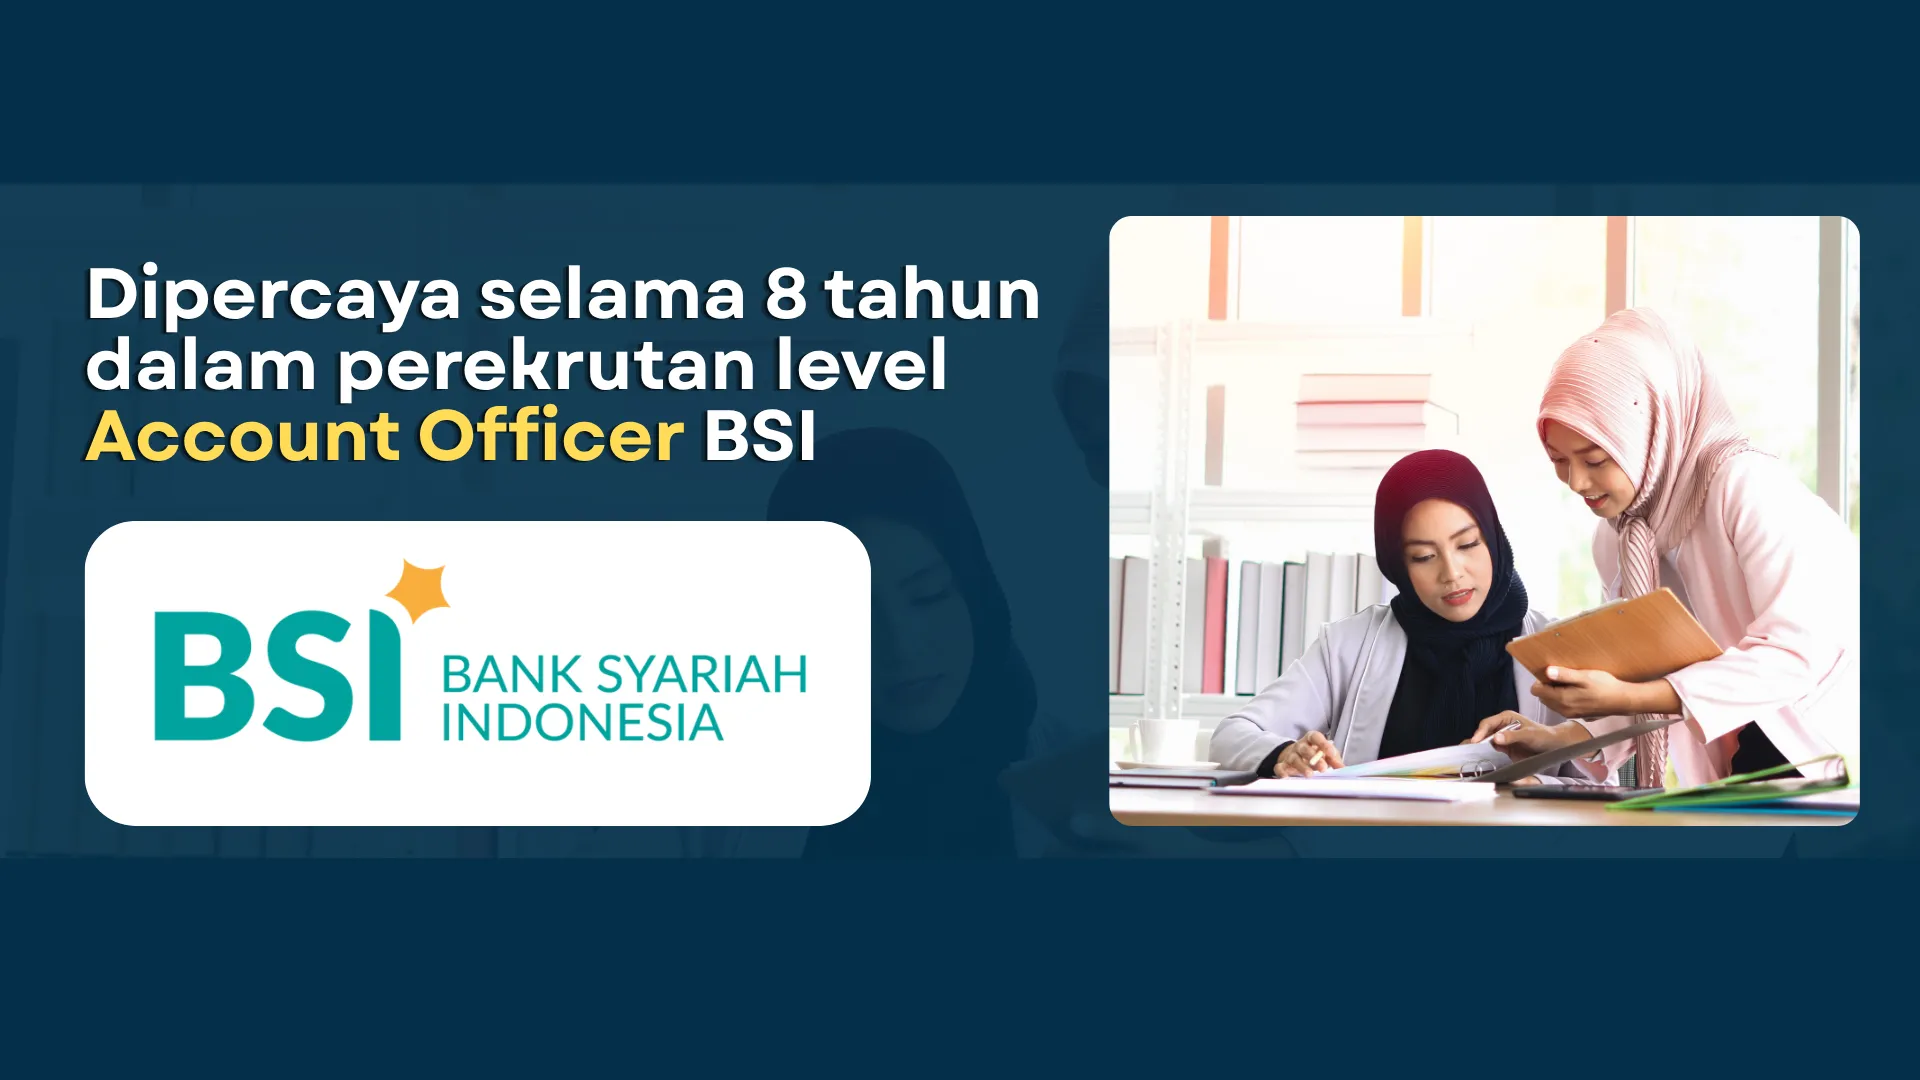
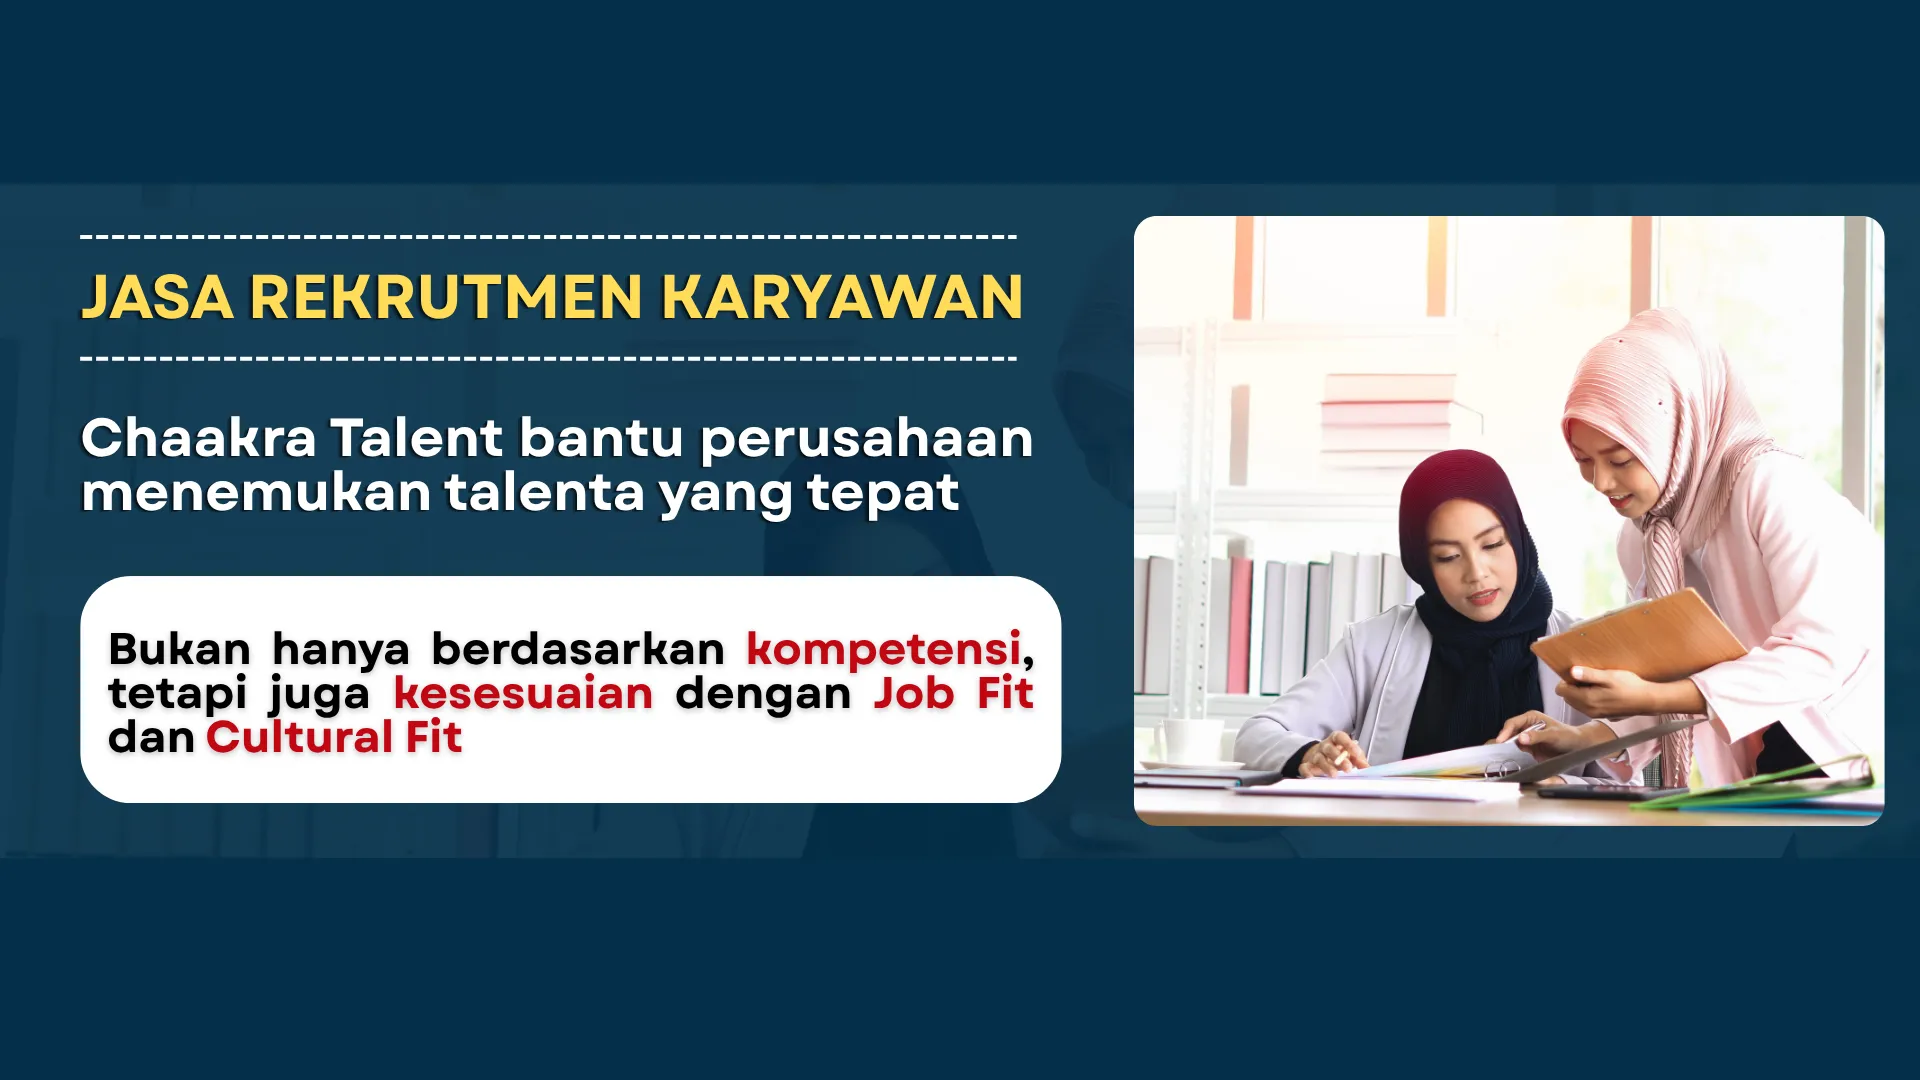
Bug fixed
+ Changed slider image
+ Changed page title & description

diff --git a/public/assets/cms/css/style.css b/public/assets/cms/css/style.css
@@ -2712,6 +2712,9 @@
   .text-center {
     text-align: center;
   }
+  .text-justify {
+    text-align: justify;
+  }
   .text-left {
     text-align: left;
   }
@@ -3895,6 +3898,9 @@
     .md\:mt-10 {
       margin-top: calc(var(--spacing) * 10);
     }
+    .md\:ml-\[30vw\] {
+      margin-left: 30vw;
+    }
     .md\:flex {
       display: flex;
     }
@@ -4026,6 +4032,9 @@
     }
     .md\:text-left {
       text-align: left;
+    }
+    .md\:text-start {
+      text-align: start;
     }
     .md\:text-4xl {
       font-size: var(--text-4xl);

diff --git a/resources/views/show_article.blade.php b/resources/views/show_article.blade.php
@@ -18,9 +18,9 @@
     <meta charset="UTF-8" />
     <meta http-equiv="X-UA-Compatible" content="IE=edge" />
     <meta name="viewport" content="width=device-width, initial-scale=1.0" />
-    <meta name="description"
-        content="{{ $article->description }}" />
-    <meta name="keywords" content="Jasa Rekrutmen Perusahaan, Layanan Rekrutmen SDM, Biro Psikologi, Jasa Rekrutmen Perusahaan, Jasa Psikolog Surabaya, Pelatihan SDM Terbaik, Pelatihan SDM Surabaya,{{ $article->keywords }},{{ $article->tags }}">
+    <meta name="description" content="{{ $article->description }}" />
+    <meta name="keywords"
+        content="Jasa Rekrutmen Perusahaan, Layanan Rekrutmen SDM, Biro Psikologi, Jasa Rekrutmen Perusahaan, Jasa Psikolog Surabaya, Pelatihan SDM Terbaik, Pelatihan SDM Surabaya,{{ $article->keywords }},{{ $article->tags }}">
     <link rel="icon" href="{{ asset('assets/cms/images/favicon.png') }}" type="image/x-icon" />
     <link rel="stylesheet" href="{{ asset('assets/cms/css/style.css') }}" />
     <link rel="preconnect" href="https://fonts.googleapis.com" />
@@ -125,9 +125,12 @@
                         class="max-w-5xl mx-auto px-6 py-16 md:py-20 flex flex-col md:flex-row gap-8 md:gap-16 font-sans text-gray-800">
 
                         <!-- Left Sidebar: Social Actions -->
+                        <!-- Left Sidebar: Social Actions -->
                         <aside class="flex-none flex flex-row md:flex-col gap-4 pt-2">
                             <!-- Twitter/X Icon -->
-                            <a class="w-12 h-12 flex items-center justify-center rounded-full border border-gray-200 hover:bg-gray-900 transition-colors group"
+                            <a href="https://twitter.com/intent/tweet?url={{ urlencode(request()->url()) }}&text={{ urlencode($article->title) }}"
+                                target="_blank" rel="noopener noreferrer"
+                                class="w-12 h-12 flex items-center justify-center rounded-full border border-gray-200 hover:bg-gray-900 transition-colors group"
                                 aria-label="Share on X">
                                 <svg class="w-4 h-4 group-hover:fill-white" viewBox="0 0 24 24">
                                     <path
@@ -135,9 +138,12 @@
                                 </svg>
                             </a>
 
-                            <!-- Instagram Icon -->
-                            <a class="w-12 h-12 flex items-center justify-center rounded-full border border-gray-200 hover:bg-gray-900 transition-colors group"
-                                aria-label="Share on Instagram">
+                            <!-- Instagram / Native Share Icon -->
+                            <!-- Instagram does not support direct web-sharing via URL. This uses the native Web Share API for mobile devices, and falls back to copying the link on desktop. -->
+                            <a href="#"
+                                onclick="if(navigator.share){ navigator.share({title: '{{ $article->title }}', url: window.location.href}); } else { navigator.clipboard.writeText(window.location.href); alert('Link copied to clipboard!'); } return false;"
+                                class="w-12 h-12 flex items-center justify-center rounded-full border border-gray-200 hover:bg-gray-900 transition-colors group"
+                                aria-label="Share on Instagram or Copy Link">
                                 <svg class="w-4 h-4 group-hover:fill-white" viewBox="0 0 24 24">
                                     <path
                                         d="M12 2.163c3.204 0 3.584.012 4.85.07 3.252.148 4.771 1.691 4.919 4.919.058 1.265.069 1.645.069 4.849 0 3.205-.012 3.584-.069 4.849-.149 3.225-1.664 4.771-4.919 4.919-1.266.058-1.644.07-4.85.07-3.204 0-3.584-.012-4.849-.07-3.26-.149-4.771-1.699-4.919-4.92-.058-1.265-.07-1.644-.07-4.849 0-3.204.013-3.583.07-4.849.149-3.227 1.664-4.771 4.919-4.919 1.266-.057 1.645-.069 4.849-.069zM12 0C8.741 0 8.333.014 7.053.072 2.695.272.273 2.69.073 7.052.014 8.333 0 8.741 0 12c0 3.259.014 3.668.072 4.948.2 4.358 2.618 6.78 6.98 6.98C8.333 23.986 8.741 24 12 24c3.259 0 3.668-.014 4.948-.072 4.354-.2 6.782-2.618 6.979-6.98.059-1.28.073-1.689.073-4.948 0-3.259-.014-3.667-.072-4.947-.196-4.354-2.617-6.78-6.979-6.98C15.668.014 15.259 0 12 0zm0 5.838a6.162 6.162 0 100 12.324 6.162 6.162 0 000-12.324zM12 16a4 4 0 110-8 4 4 0 010 8zm6.406-11.845a1.44 1.44 0 100 2.881 1.44 1.44 0 000-2.881z" />
@@ -145,7 +151,9 @@
                             </a>
 
                             <!-- Facebook Icon -->
-                            <a class="w-12 h-12 flex items-center justify-center rounded-full border border-gray-200 hover:bg-gray-900 transition-colors group"
+                            <a href="https://www.facebook.com/sharer/sharer.php?u={{ urlencode(request()->url()) }}"
+                                target="_blank" rel="noopener noreferrer"
+                                class="w-12 h-12 flex items-center justify-center rounded-full border border-gray-200 hover:bg-gray-900 transition-colors group"
                                 aria-label="Share on Facebook">
                                 <svg class="w-4 h-4 group-hover:fill-white" viewBox="0 0 24 24">
                                     <path
@@ -153,20 +161,19 @@
                                 </svg>
                             </a>
                         </aside>
-
                         <!-- Main Content Area -->
                         <article class="flex-1 max-w-4xl">
 
                             <h1
-                                class="text-5xl md:text-[3.7rem] leading-tight font-bold text-gray-900 mb-8 tracking-tight">
+                                class="text-4xl md:text-[3.7rem] leading-tight font-bold text-gray-900 mb-8 tracking-tight">
                                 {{ $article->title }}
                             </h1>
 
-                            <div class="space-y-6 text-lg text-gray-700 leading-relaxed">
+                            <div class="space-y-6 text-lg text-gray-700 leading-relaxed text-justify">
                                 {!! $article->content !!}
                             </div>
 
-                            
+
 
                         </article>
                     </div>

diff --git a/resources/views/index.blade.php b/resources/views/index.blade.php
@@ -2,7 +2,7 @@
 <html lang="en">
 
 <head>
-    <title>Layanan Psikologi - Chaakra Talent</title>
+    <title>Chaakra Talent - Penyedia Jasa Pengembangan SDM</title>
     <meta charset="UTF-8" />
     <meta http-equiv="X-UA-Compatible" content="IE=edge" />
     <meta name="viewport" content="width=device-width, initial-scale=1.0" />
@@ -455,6 +455,7 @@
                 </div>
             </div>
         </div>
+        <h4 class="text-gray-800 mt-8 md:mt-0 font-light text-base text-center md:text-start ml-0 md:ml-[30vw]">Metodologi yang Chaakra gunakan</h4>
 
     </section>
 
@@ -653,7 +654,7 @@
 
                         <div class="relative mt-8">
                             <button
-                                onclick="window.location.href='https://wa.me/+6285730877745';"
+                                onclick="window.location.href='https://choise.chaakra-consulting.com/talent-test/daftar/1';"
                                 class="group/btn relative w-full overflow-hidden rounded-xl bg-[#ffdc59] p-px font-semibold text-white cursor-pointer">
                                 <div
                                     class="relative rounded-xl px-4 py-3 transition-colors group-hover/btn:bg-transparent">
@@ -824,7 +825,7 @@
                             d="M14.017 21v-7.391c0-5.704 3.731-9.57 8.983-10.609l.995 2.151c-2.432.917-3.995 3.638-3.995 5.849h4v10h-9.983zm-14.017 0v-7.391c0-5.704 3.748-9.57 9-10.609l.996 2.151c-2.433.917-3.996 3.638-3.996 5.849h3.983v10h-9.983z" />
                     </svg>
                     <p class="text-gray-500 text-sm leading-relaxed mb-6">
-                        Kami berterima kasih kepada Chaakra Consulting yang selama ini membantu kami dalam hal rekrutmen
+                        Kami berterima kasih kepada Chaakra Consulting yang selama ini membantu kami dalam hal rekrutmen. +/- 8 tahun BSI memercayakan Chaakra dalam perekrutan karyawan di level Account Officer
                     </p>
                     <div class="flex items-center gap-3 mt-auto">
                         <div class="w-10 h-10 rounded-full bg-gray-100 flex items-center justify-center shrink-0">
@@ -871,8 +872,7 @@
                             d="M14.017 21v-7.391c0-5.704 3.731-9.57 8.983-10.609l.995 2.151c-2.432.917-3.995 3.638-3.995 5.849h4v10h-9.983zm-14.017 0v-7.391c0-5.704 3.748-9.57 9-10.609l.996 2.151c-2.433.917-3.996 3.638-3.996 5.849h3.983v10h-9.983z" />
                     </svg>
                     <p class="text-gray-500 text-sm leading-relaxed mb-6">
-                        Chaakra Consulting merupakan salah satu konsultan management dan sdm terbaik yang pernah kami
-                        hire
+                        Chaakra Consulting merupakan salah satu konsultan manajemen dan sdm terbaik yang pernah kami hire. Kami merekomendasikan Chaakra khususnya dalam bidang manajemen sumber daya manusia
                     </p>
                     <div class="flex items-center gap-3 mt-auto">
                         <div class="w-10 h-10 rounded-full bg-gray-100 flex items-center justify-center shrink-0">

diff --git a/resources/views/about_us.blade.php b/resources/views/about_us.blade.php
@@ -14,7 +14,7 @@
 
         gtag('config', 'G-M4JWWQZ09M');
     </script>
-    <title>Layanan Psikologi - Chaakra Talent</title>
+    <title>Chaakra Talent - Penyedia Jasa Pengembangan SDM</title>
     <meta charset="UTF-8" />
     <meta http-equiv="X-UA-Compatible" content="IE=edge" />
     <meta name="viewport" content="width=device-width, initial-scale=1.0" />

diff --git a/resources/views/articles.blade.php b/resources/views/articles.blade.php
@@ -14,7 +14,7 @@
 
         gtag('config', 'G-M4JWWQZ09M');
     </script>
-    <title>Layanan Psikologi - Chaakra Talent</title>
+    <title>Chaakra Talent - Penyedia Jasa Pengembangan SDM</title>
     <meta charset="UTF-8" />
     <meta http-equiv="X-UA-Compatible" content="IE=edge" />
     <meta name="viewport" content="width=device-width, initial-scale=1.0" />
